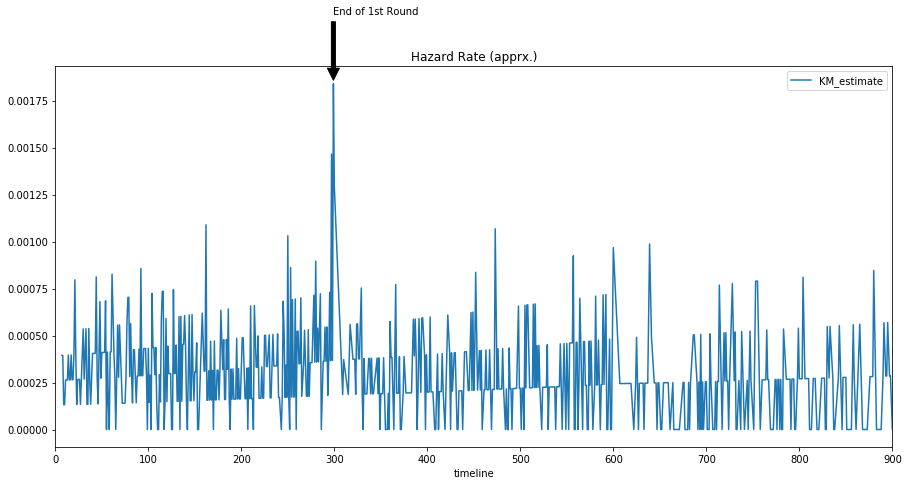
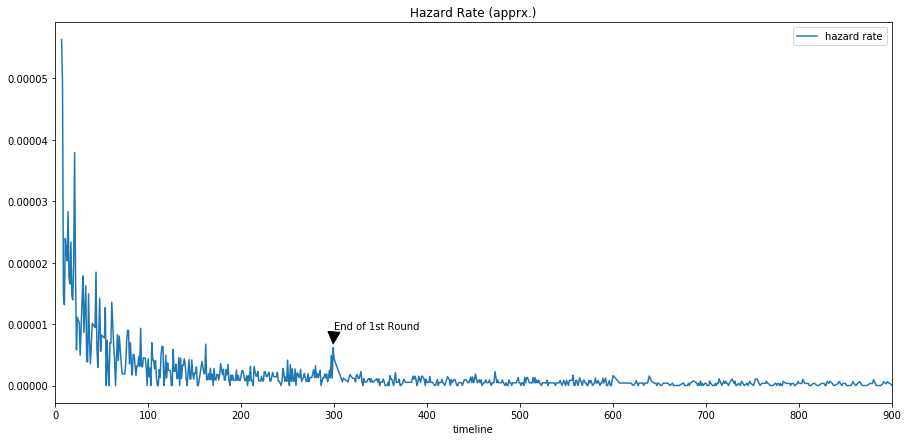
hazard rate post

diff --git a/_layouts/pasts.html b/_layouts/pasts.html
@@ -1,0 +1,9 @@
+---
+layout: default
+---
+
+<script type="text/javascript"
+    src="http://cdn.mathjax.org/mathjax/latest/MathJax.js?config=TeX-AMS-MML_HTMLorMML">
+</script>
+
+{{ content }}

diff --git a/_posts/2017-11-29-ufc-hazard-rates.md b/_posts/2017-11-29-ufc-hazard-rates.md
@@ -1,9 +1,12 @@
 ---
 layout: default
-title:  "The curious case of hazard rates in UFC"
+title:  "The curious case of KO Hazard Rates in UFC fights"
 date:   2017-11-29 
 syntax_highlighter: rouge
 ---
+<script type="text/javascript"
+    src="http://cdn.mathjax.org/mathjax/latest/MathJax.js?config=TeX-AMS-MML_HTMLorMML">
+</script>
 
 # The curious case of hazard rates in UFC
 
@@ -11,29 +14,49 @@ I’ve recently scraped some UFC fights data, with the intention of applying som
 
 I was playing around with the Kaplan Meier estimate of the survival curve, using KO as the failure event, when I noticed something interesting.
 
-There’s a huge spike in the hazard rate around 300 seconds, which is right around when the 1st round ends .
+![Hazard Rate Duration]({{ "/assets/hazard_rate_duration.png" | absolute_url }})
+
+
+There’s a large spike in the hazard rate around 300 seconds, which is right around when the 1st round ends.
 
 What does this all mean? Well, for anyone still reading past this point, let’s provide some background first.
 
 
+
 ## Hold on, what’s Survival Analysis
 
-Survival analysis is a field of statistics used to model the expected lifetime of an agent, before a “failure event” occurs. For example, a typical question in survival analysis would be “What’s the expected lifespan of prostate cancer patients?”, or “What’s the probability cancer patients survive up to 5 years?” etc.
+**Survival analysis** is a field of statistics used to model the expected lifetime of an agent, before a “failure event” occurs. For example, a typical question in survival analysis would be “What’s the expected lifespan of prostate cancer patients?”, or “What’s the probability cancer patients survive up to 5 years?” etc.
 
 The core of survival analysis lies within modelling the [survival function](https://en.wikipedia.org/wiki/Survival_function)  S(t), which defines the probability that the object of interest will survive up to time t.
 
-The complement to the survival function is the hazard rate h(t), which is defined as the instantaneous probability that the event occurs at time t.
+$$S(t) = P[T \gt t]$$
+
+
+The complement to the survival function is the **hazard rate** h(t), which is defined as the instantaneous probability that the event occurs at time t.
+
+$$h(t) =  \lim \limits_{\delta \to 0} \frac{P[t \le T \le t+\delta  |  T \gt t]}{\delta}$$ 
 
 The cool thing about survival analysis is that we can define the “failure event” as any arbitrary event. For example, financial institutions use survival analysis to model defaults on loans, where the default is the failure event. E-commerce companies use it to model customer churn, where canceling a membership is the failure event.
 
 In this case, since we’re dealing with fight data, I’m using knockouts (KO/TKO) as the failure event.
 
+The data I’ve scraped comprises of the UFC fights (up until last month), including the duration of the fight, who the fighters were, and the outcome (KO/TKO, submission, referee decision, etc.).
+
+To model KO survival as function of time, we simply need the total duration of each fight, and label for each fight indicating whether or not the fight ended in a KO/TKO or not.
+
 ## Application
 
-The `lifelines` library in python provides a nifty API for modeling survival functions. All you need to model the survival curve is input the observed lifetime for each event (which in this case is the number of seconds before KO / or fight ending), and
-With the lifelines API, we can get a non-parametric estimate of the survival function through their `KaplanMeierFitter`  , which calculates
+The lifelines library in python provides a nifty API for modeling survival functions. All you need to model the survival curve is a Pandas dataframe of fight duration and whether or not a KO/TKO occurred or not.
 
-for each point in time t.
+With the lifelines API, we can get a non-parametric estimate of the survival function through their `KaplanMeierFitter`.
+{% highlight python %}
+
+from lifelines import KaplanMeierFitter
+kmf = KaplanMeierFitter()
+
+kmf.fit(surv_df_3['fight_time'], event_observed=surv_df_3['KO'])
+kmf.plot(title = "Probability of Surviving (a KO)", figsize = [15,7])
+{% endhighlight %}
 
 And we get something that looks like this:
 
@@ -48,22 +71,39 @@ Notice the weird kink around 300 seconds? We’ll get back to that later.
 
 Unfortunately, lifelines doesn’t provide a way to see the see the hazard function — however, we can approximate it by taking the shifted difference in ratio of the survival function.
 
-Essentially, what we are approximating is
+{% highlight python %}
+survival_func = kmf.survival_function_
+shifted_survival_diff = (1 - survival_func/survival_func. shift(1))
+hazard_empirical = shifted_survival_diff.div(survival_func.index.to_series(), axis=0)
+{% endhighlight %}
 
- 1 - S(t + dt) / S(t) ~~ P[ T < t+dt | T > t ] , which is probability of failure (KO) at time t+dt, which is the definition of the hazard rate.
+
+Essentially, what we are doing is this:
+
+$$ h(t_{i+1}) = \frac{\widehat{S}(t_{i+1}) - \widehat{S}(t_i)} {t_{i+1} - t_i}  \approx \frac{P[t_i \le T \le t_{i+1}  |  T \gt t_i]}{t_{i+1} - t_i} $$
+
+Where $$\widehat{S}(t)$$ is the empirical survival function from the Kaplan Meier estimate.
+
+
 
 Calculating and plotting the hazard rate now give us this:
 
 ![Hazard Rate Duration]({{ "/assets/hazard_rate_duration.png" | absolute_url }})
 
+Some things pop out:
+- the hazard rate of KO is highest in the beginning of the fight
+- the hazard rate declines over time, but **spikes up again around 300 seconds** (remember the kink?)
+- after that, it seems to stabilize and stay relatively constant
 
-Now, the kink from before shows up in a big way. Recall that the hazard rate is defined as the instantaneous rate of failure, or the probability of failing at time t (given that the agent has survived up until then).
+It makes sense that the hazard rate is highest in the beginning, as that's when fighters are still figuring each other out. In those early minutes, it's also possible for one fighter to get lucky with a swing and knock the other guy/gal out.
 
-That means that right around 300 seconds, the probability of a KO jumps by more than 2x.
+Over time, fighters get into their rhythym, and are able to react better to their opponenets, which explains the stabilization in hazard rates.
 
-If we look at the distribution of fight times, there’s also a spike around 300 seconds.
+However, the increase at 300 seconds is pretty odd. Recall that the hazard rate is defined as the instantaneous rate of failure, or the probability of failing at time t (given that the agent has survived up until then). This means that right around 300 seconds, the probability of a KO jumps by more than 3x.
 
-![Hazard Rate Duration]({{ "/assets/hazard_rate_duration.png" | absolute_url }})
+And if we look at the distribution of fight times, there’s also a spike around 300 seconds.
+
+![Hazard Rate Duration]({{ "/assets/fight_times_hist.png" | absolute_url }})
 
 
 So for some reason, the probability of a KO ~ 300 seconds is much higher than other times.

diff --git a/about.md b/about.md
@@ -4,15 +4,4 @@ title: About
 permalink: /about/
 ---
 
-This is the base Jekyll theme. You can find out more info about customizing your Jekyll theme, as well as basic Jekyll usage documentation at [jekyllrb.com](https://jekyllrb.com/)
-
-You can find the source code for Minima at GitHub:
-[jekyll][jekyll-organization] /
-[minima](https://github.com/jekyll/minima)
-
-You can find the source code for Jekyll at GitHub:
-[jekyll][jekyll-organization] /
-[jekyll](https://github.com/jekyll/jekyll)
-
-
-[jekyll-organization]: https://github.com/jekyll
+Hello there! I'm a data scientist based in New York, working in ad tech at [Rockerbox](http://rockerbox.com/).
